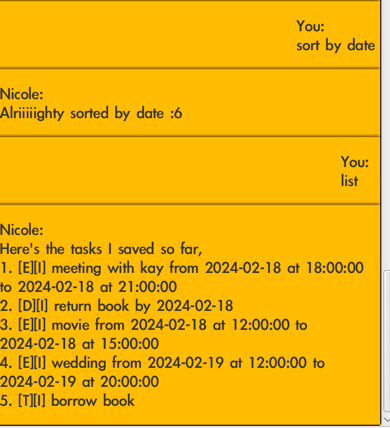
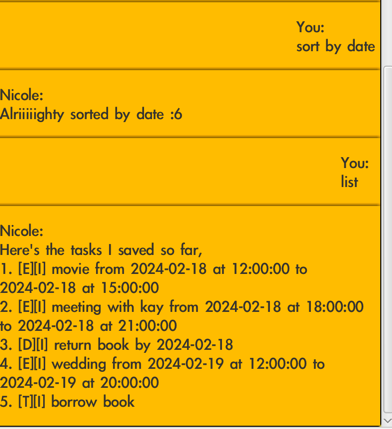
Edit README

Changed region(s): [[0.0, 0.0, 1.0, 1.0]]

diff --git a/src/main/java/nicole/taskstorage/TaskList.java b/src/main/java/nicole/taskstorage/TaskList.java
@@ -180,18 +180,25 @@ public class TaskList {
      *
      * @return a success message.
      */
-    public String sortTasksByDate() {
+    public String sortTasksByDate() throws NicoleException {
         // This sorter doesn't meaningfully sort Todos, whose Date is by default the maximum possible date
         Comparator<Task> dateSorter = (task1, task2) -> {
             if (task1.getDate().isBefore(task2.getDate())) {
                 return -1;
             } else if (task1.getDate().isEqual(task2.getDate())) {
-                return 0;
+                if (task1.getFromDateTime().isBefore(task2.getFromDateTime())) {
+                    return -1;
+                } else if (task1.getFromDateTime().isAfter(task2.getFromDateTime())) {
+                    return 1;
+                } else {
+                    return 0;
+                }
             } else {
                 return 1;
             }
         };
         TASKS.sort(dateSorter);
+        storage.saveTasksToFile();
         return "Alriiiiighty sorted by date :6";
     }
 }

diff --git a/docs/README.md b/docs/README.md
@@ -36,7 +36,7 @@ You can find other helpful pointers below for a few of Nicole's commands.
 
 ## Adding an item
 
-After adding an item in any of the following formats: 
+After adding an item in the following formats: 
 1. `todo [task]`
 2. `deadline [task] by YYYY-MM-DD`
 3. `event [description] from YYYY-MM-DD at HH:MM:SS to YYYY-MM-DD at HH:MM:SS`
@@ -101,11 +101,11 @@ peruse your current items first.
 `sort by date` will rearrange your list
 of items from earliest to latest as per their date(time) like so:
 
-![img_6.png](sortSS.png)
+![img.png](sortSS.png)
 
 Where`Events` are sorted per their  `from` datetime
 
-Note that since `todos` do not have a datetime, they are ordered
+**Note** that since `todos` do not have a datetime, they are ordered
 **last** by default.
 
 ## Finally...
